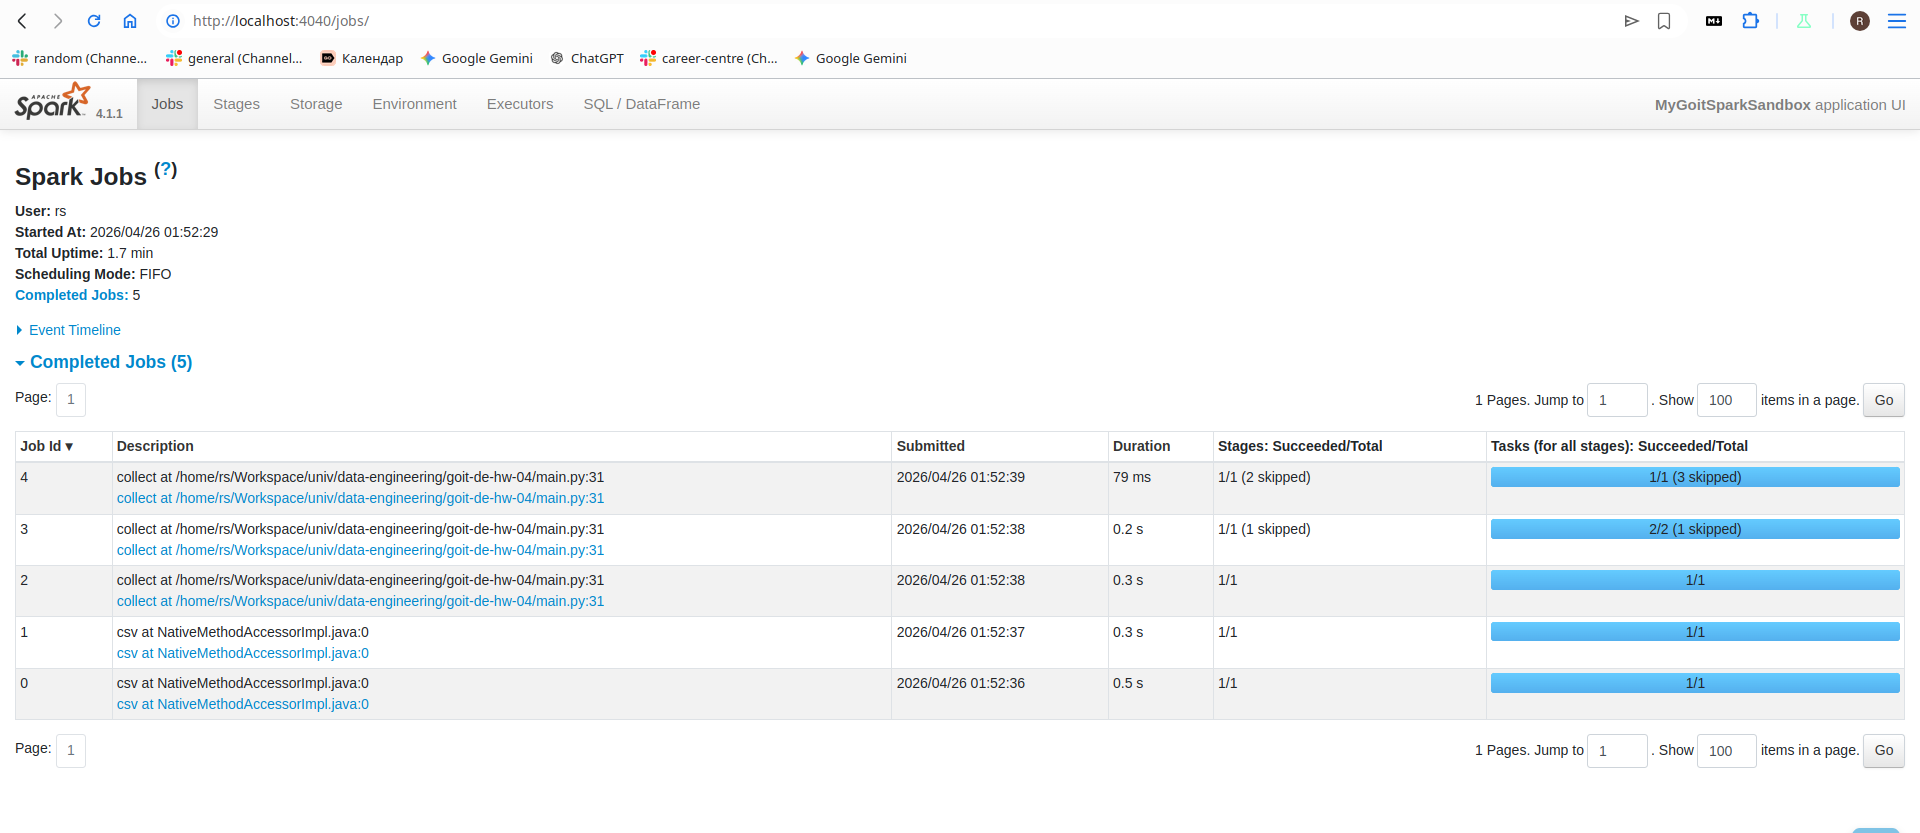
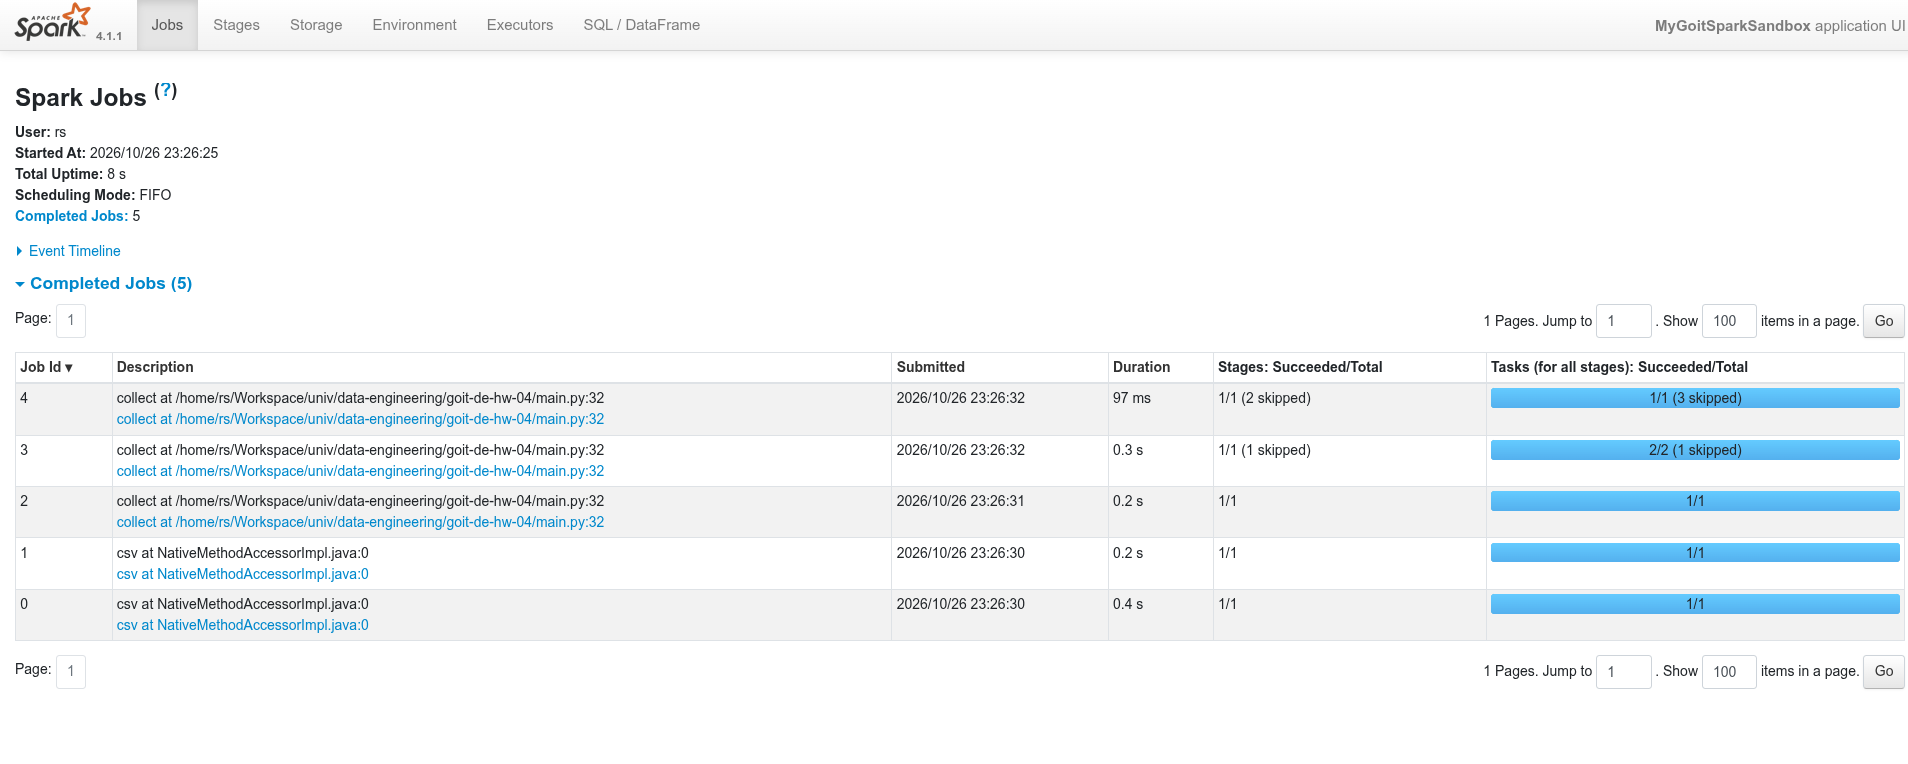
Update screens

diff --git a/main.py b/main.py
@@ -5,35 +5,41 @@ csv_path = os.path.join(os.path.dirname(__file__), "nuek-vuh3.csv")
 
 try:
 
-    # Створюємо сесію Spark
-    spark = ((((SparkSession.builder
-            .master("local[*]"))
-            .config("spark.sql.shuffle.partitions", "2"))
-            .appName("MyGoitSparkSandbox"))
-            .getOrCreate())
+    spark = SparkSession.builder \
+        .master("local[*]") \
+        .config("spark.sql.shuffle.partitions", "2") \
+        .appName("MyGoitSparkSandbox") \
+        .getOrCreate()
 
     # Завантажуємо датасет
-    nuek_df = (spark.read
-            .option("header", "true")
-            .option("inferSchema", "true")
-            .csv(csv_path))
+    nuek_df = spark.read \
+        .option("header", "true") \
+        .option("inferSchema", "true") \
+        .csv(csv_path)
 
+ 
     nuek_repart = nuek_df.repartition(2)
 
+    nuek_processed_cached = nuek_repart \
+        .where("final_priority < 3") \
+        .select("unit_id", "final_priority") \
+        .groupBy("unit_id") \
+        .count() \
+        .cache()  # Додано функцію cache
 
+    # Проміжний action: collect
+    nuek_processed_cached.collect()
 
-    nuek_processed = (nuek_repart
-                    .where("final_priority < 3")
-                    .select("unit_id", "final_priority")
-                    .groupBy("unit_id").count().cache())
+    # Ось ТУТ додано рядок
+    nuek_processed = nuek_processed_cached.where("count>2")
 
     nuek_processed.collect()
 
-    nuek_processed = nuek_processed.where("count>2")
+    input("Press Enter to continue...5")
 
-    result = nuek_processed.collect()
-    print(result)
-    input("Press Enter to continue...")
+    # Звільняємо пям'ять від Dataframe
+    nuek_processed_cached.unpersist()
+
 
 finally:
     # Закриваємо сесію Spark
